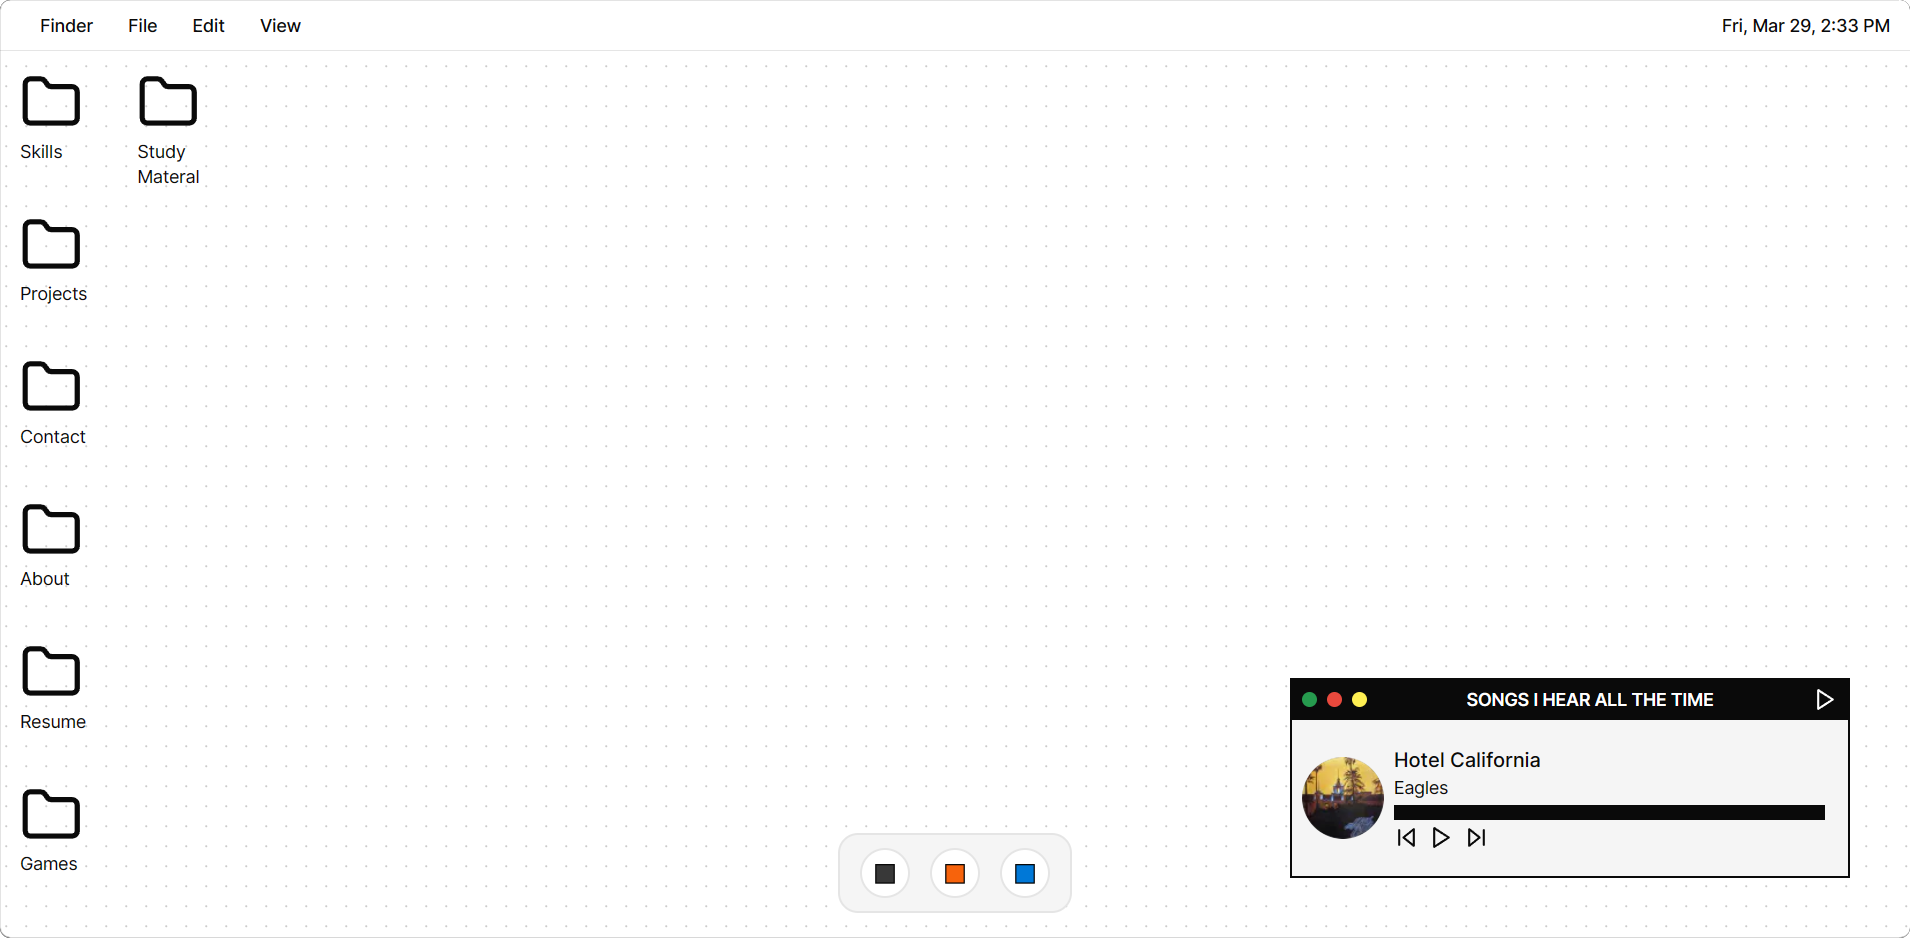
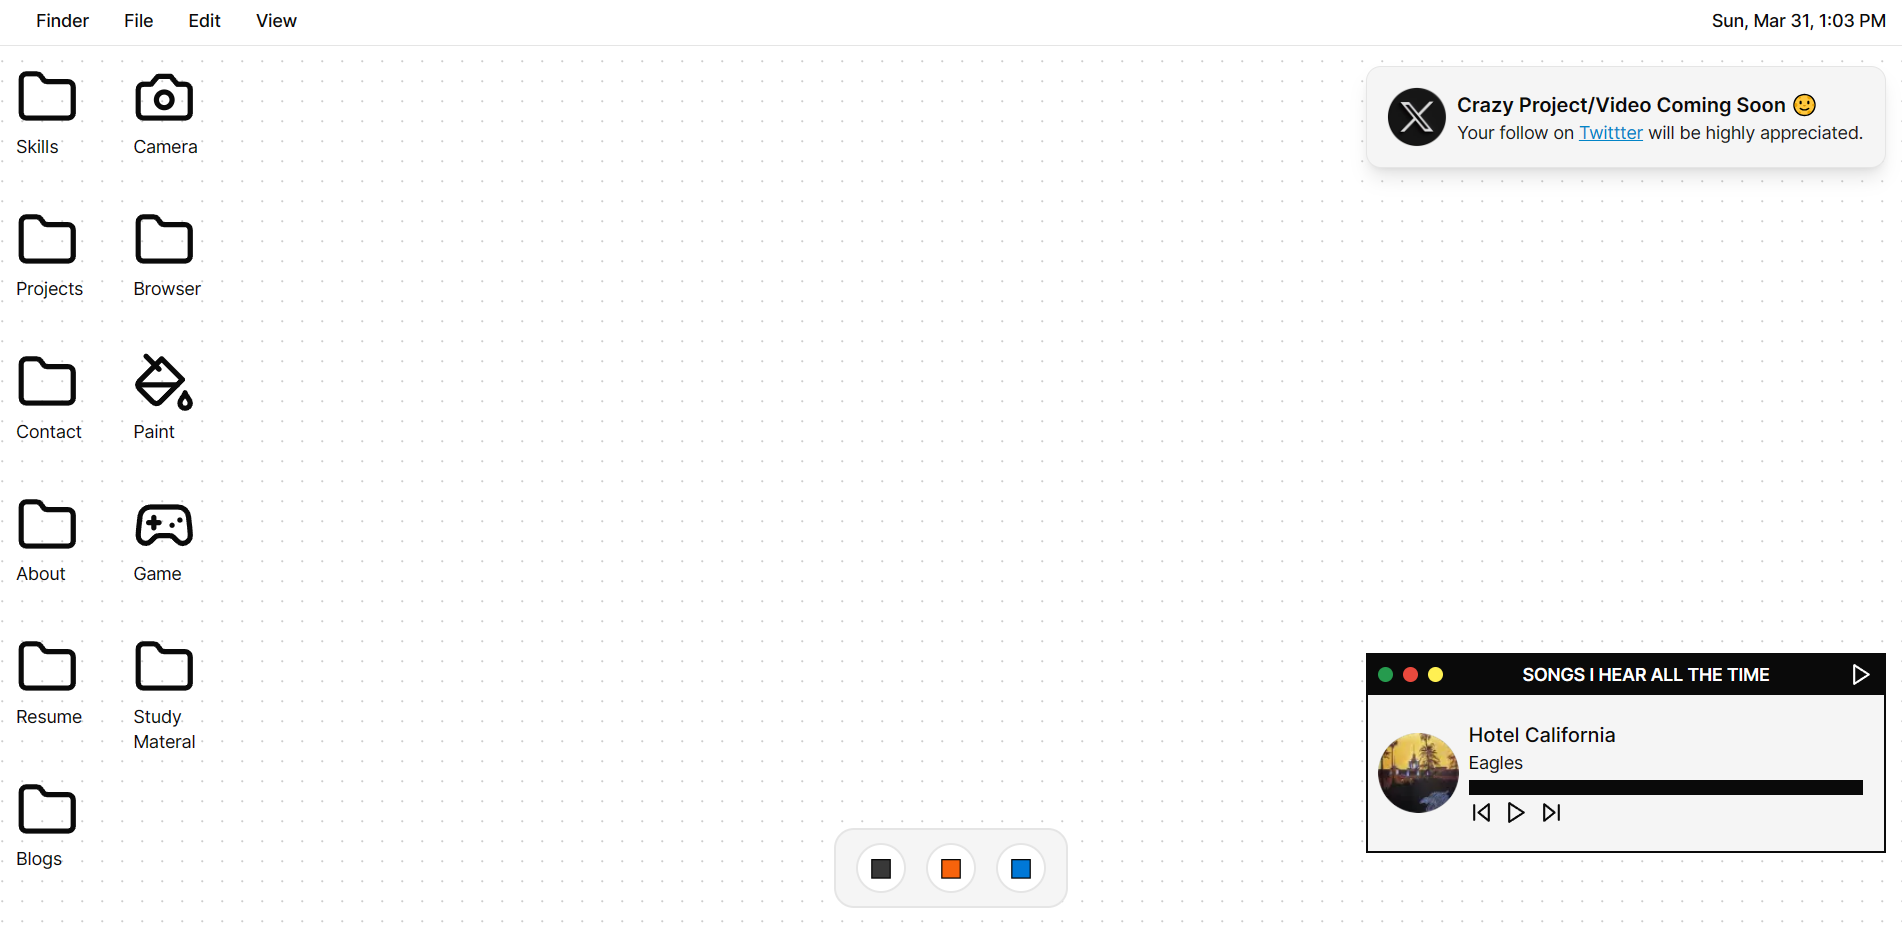
✨ feat: x widget and gta6 theme project

diff --git a/components/promotion-widget/index.tsx b/components/promotion-widget/index.tsx
@@ -1,9 +1,35 @@
+import Image from "next/image";
 import React from "react";
 
 export const PromotionWidget = () => {
   return (
-    <div
-      className={`bg-purple-700 flex h-40 w-full select-none flex-col items-center justify-center md:mx-0`}
-    ></div>
+    <a
+      className={`hover:border2 flex h-min w-full select-none items-center justify-start gap-2 rounded-xl border bg-secondary p-4 shadow-lg transition-all duration-150 ease-in hover:shadow-xl md:mx-0`}
+      href="https://twitter.com/anurag__kochar"
+      target="_blank"
+    >
+      <Image
+        src={`https://static.vecteezy.com/system/resources/previews/027/395/710/original/twitter-brand-new-logo-3-d-with-new-x-shaped-graphic-of-the-world-s-most-popular-social-media-free-png.png`}
+        alt="x-logo"
+        priority
+        className="aspect-square w-12 "
+        width={150}
+        height={150}
+      />
+      <div className="flex flex-col items-start justify-start">
+        <span className="text-base   font-semibold text-foreground">
+          {" "}
+          Crazy Project/Video Coming Soon 🌝{" "}
+        </span>
+        <p className="text-sm text-secondary-foreground">
+          {" "}
+          Your follow on{" "}
+          <span className="text-sky-600 underline hover:text-sky-700">
+            Twittter
+          </span>{" "}
+          will be highly appreciated.{" "}
+        </p>
+      </div>
+    </a>
   );
 };

diff --git a/components/apps/projects/index.tsx b/components/apps/projects/index.tsx
@@ -3,13 +3,16 @@ import { ProjectCard } from "./project-card";
 
 export const ProjectsAppContent = () => {
   return (
-    <div className="flex flex-col justify-start items-start w-full gap-32">
+    <div className="flex w-full flex-col items-start justify-start gap-32">
       {PROJECTS_BY_GROUPS?.map((group) => (
         <div
           key={group.id}
           className="flex flex-col items-start justify-start gap-10"
         >
-          <h3 className="font-bold text-xl md:text-2xl lg:text-4xl"> {group.title} </h3>
+          <h3 className="text-xl font-bold md:text-2xl lg:text-4xl">
+            {" "}
+            {group.title}{" "}
+          </h3>
           <div className="grid w-full auto-rows-auto grid-cols-12 gap-4">
             {group.projects?.map((project) => (
               <ProjectCard key={project.id} project={project} />
@@ -17,6 +20,19 @@ export const ProjectsAppContent = () => {
           </div>
         </div>
       ))}
+
+      <p className="font-medium text-sm">
+        {" "}
+        (My old projects are available in my{" "}
+        <a
+          href="https://anurag-kochar.vercel.app/"
+          target="_blank"
+          className="text-sky-600 underline hover:text-sky-700"
+        >
+          old portfolio
+        </a>{" "}
+        ){" "}
+      </p>
     </div>
   );
 };

diff --git a/config/projects.config.tsx b/config/projects.config.tsx
@@ -136,11 +136,34 @@ export const PROJECTS_BY_GROUPS: ProjectGroup[] = [
           "Earn money - place billboards in your city (community).",
         ],
       },
+      {
+        id: "gta-6-vs-code-theme",
+        title: "GTA 6 VS Code Theme",
+        content: <Project id="gta-6-vs-code-theme" />,
+        tagline:
+          "unofficial, fan-made vscode theme based on gta 6 color palette.",
+        thumbnail: "/images/project-images/gta-6-vs-code-theme/1.jfif",
+        images: [
+          {
+            src: "/images/project-images/gta-6-vs-code-theme/1.jfif",
+            title: "",
+          },
+          {
+            src: "/images/project-images/gta-6-vs-code-theme/1.jfif",
+            title: "",
+          },
+        ],
+        techStack: [{ title: "JSON (lmao)" }],
+        liveSiteUrl:
+          "https://marketplace.visualstudio.com/items?itemName=GTA-6-theme.gta-6-theme",
+        sourceCodeUrl: "https://github.com/Anurag-Kochar-1/GTA-6-theme",
+        features: ["Its a theme bro"],
+      },
     ],
   },
   {
-    id: "other-projects",
-    title: "Not so top projects 😁",
+    id: "old-top-projects",
+    title: "Old top projects 😁",
     projects: [
       {
         id: "comm-comm",

diff --git a/app/page.tsx b/app/page.tsx
@@ -5,7 +5,7 @@ import { Windows } from "@/components/windows";
 import { ContextMenu, ContextMenuTrigger } from "@/components/ui/context-menu";
 import { ContextMenuContentOptions } from "@/components/context-menu-content";
 import { MusicPlayer } from "@/components/music-player";
-// import { PromotionWidget } from "@/components/promotion-widget";
+import { PromotionWidget } from "@/components/promotion-widget";
 
 export default function Home() {
   return (
@@ -20,7 +20,7 @@ export default function Home() {
             <AllApps />
             <div className="mx-auto flex h-full w-[90%] flex-col items-start justify-start gap-10 md:mx-0 md:max-w-sm md:p-2 lg:max-w-md lg:flex-col-reverse lg:justify-between lg:gap-0 lg:p-4">
               <MusicPlayer />
-              {/* <PromotionWidget /> */}
+              <PromotionWidget />
             </div>
             <Dock />
           </section>

diff --git a/components/apps/contact/index.tsx b/components/apps/contact/index.tsx
@@ -2,8 +2,18 @@ import React from "react";
 
 export const ContactAppContent = () => {
   return (
-    <div className="flex h-full w-full flex-col items-center justify-start gap-6 overflow-y-auto py-12 px-4">
-      <h3 className="text-sm sm:text-lg md:text-2xl text-center lg:text-4xl font-bold">📧 anuragmarketing101@gmail.com</h3>
+    <div className="flex h-full w-full flex-col items-center justify-start gap-6 overflow-y-auto px-4 py-12">
+      <p className="text-center text-lg font-medium">
+        DM{" "}
+        <a
+          href="https://twitter.com/anurag__kochar"
+          target="_blank"
+          className="text-sky-600 underline hover:text-red-700"
+        >
+          @anurag__kochar
+        </a>{" "}
+        or mail on 📧 anuragmarketing101@gmail.com
+      </p>
     </div>
   );
 };

diff --git a/components/apps/wallpapers.tsx b/components/apps/wallpapers.tsx
@@ -12,7 +12,7 @@ export const WallpapersAppContent = () => {
         <Image
           src={item.thumbnail}
           key={item.name}
-          onClick={() => setWallpaper(item)}
+          onClick={() => alert("Feature in progress :)")}
           className="col-span-full flex aspect-video h-full w-full flex-col items-start justify-start gap-2 overflow-hidden rounded-lg border-2 object-cover hover:cursor-pointer lg:col-span-6"
           width={450}
           height={450}

diff --git a/components/apps/about-me/index.tsx b/components/apps/about-me/index.tsx
@@ -4,6 +4,11 @@ export const AboutMeAppContent = () => {
   return (
     <div className="flex h-full w-full flex-col items-center justify-start gap-6 overflow-y-auto py-12">
       <h1 className="text-4xl font-bold">Hi, I&apos;m Anurag 👋</h1>
+      <p className="italic">
+        {" "}
+        (As of now, this folder is empty, but I will write an autobiography
+        under 696969 words in the coming days){" "}
+      </p>
     </div>
   );
 };
